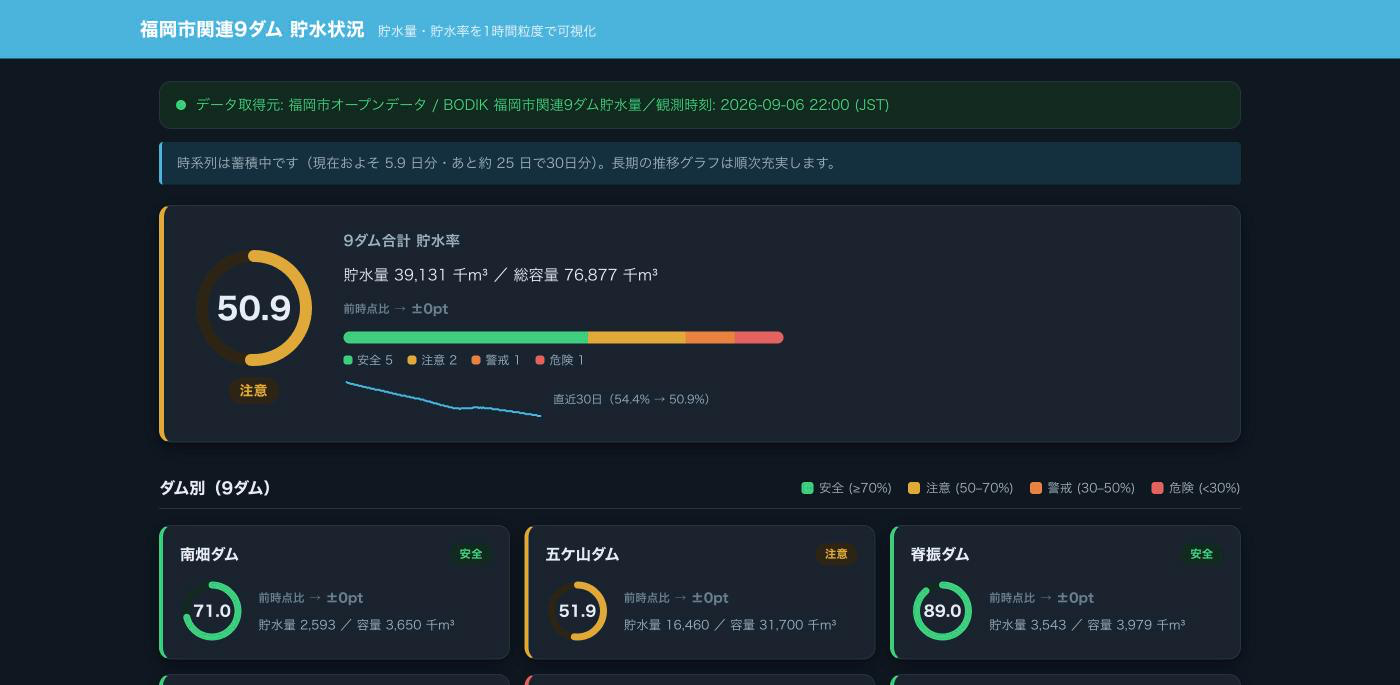
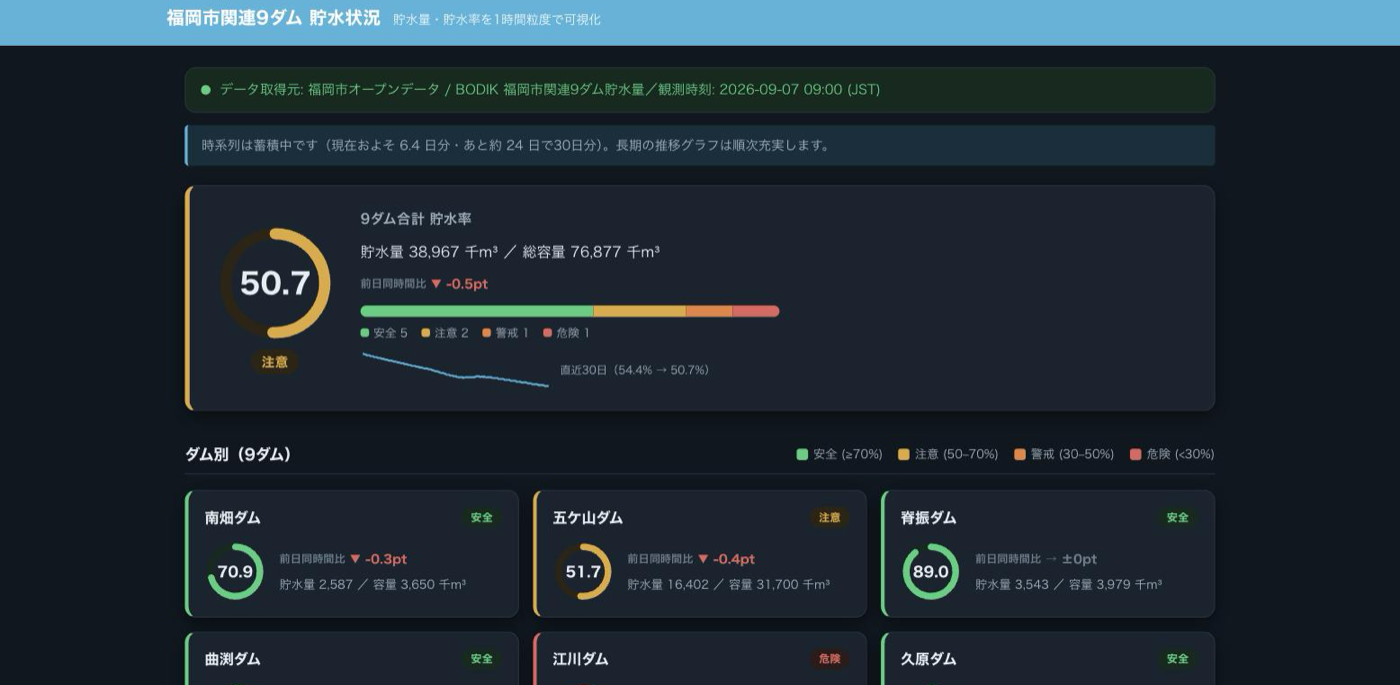
feat(delta): 差分表示を前日同時間比に変更 (#7)
前正時比（history.series 末尾2点の差分）から、最新観測時刻の
24時間前（±90分以内で最寄りの観測点を代用、無ければ非表示）との
差分に変更。UI ラベル・aria-label・README・スクリーンショット
（PC / ダーク）も「前日同時間比」に更新。

diff --git a/assets/app.js b/assets/app.js
@@ -5,8 +5,9 @@
  *   - data/latest.json を fetch し、9ダム個別カード＋合計サマリを描画する
  *   - 貯水率は SVG 円形リングゲージ（充填量＝貯水率・中央に数値）で可視化する（依存追加なし）
  *   - 合計サマリは「リング＋内訳セグメントバー（安全/注意/警戒/危険の本数）＋直近30日スパークライン」
- *   - 前時点比は貯水率のみ 1 系統に集約し、数値の下に「▲+0.2pt」相当を出す
- *     （前時点は latest.json 単体には無いため data/history.json の series 末尾2点の差分から算出）
+ *   - 前日同時間比は貯水率のみ 1 系統に集約し、数値の下に「▲+0.2pt」相当を出す
+ *     （前日同時刻の値は latest.json 単体には無いため data/history.json の series から
+ *      「最新観測時刻の24時間前（±90分で最寄り）」の点を引いて差分を算出）
  *   - 最終更新の表示は latest.observedAt（毎正時の観測時刻）を使う。
  *   - 実データ取得に失敗したら data/*.sample.json にフォールバックし、
  *     「サンプルデータ表示中」バッジを出す
@@ -174,11 +175,11 @@ function makeRing(rate, size) {
 }
 
 /*
- * 前時点比を 1 系統に集約した表示（貯水率のみ）。
- *   「前時点比 ▲ +0.2pt」を出す。向きは形状（▲▼→）＋色。
- *   色に依存しないよう要素全体に aria-label（"前時点比 貯水率 上昇 0.2ポイント" 等）を持たせ、
+ * 前日同時間比を 1 系統に集約した表示（貯水率のみ）。
+ *   「前日同時間比 ▲ +0.2pt」を出す。向きは形状（▲▼→）＋色。
+ *   色に依存しないよう要素全体に aria-label（"前日同時間比 貯水率 上昇 0.2ポイント" 等）を持たせ、
  *   アイコンは aria-hidden にしてスクリーンリーダーでの重複読みを防ぐ。
- *   前時点比データが無ければ「前時点比 —」。
+ *   前日同時間比データが無ければ「前日同時間比 —」。
  */
 function makeDeltaLine(deltaRate) {
   var el = document.createElement("span");
@@ -187,14 +188,14 @@ function makeDeltaLine(deltaRate) {
 
   var lead = document.createElement("span");
   lead.className = "delta-line-lead";
-  lead.textContent = "前時点比";
+  lead.textContent = "前日同時間比";
   el.appendChild(lead);
 
   var dir = deltaDirection(deltaRate, "rate");
   if (!dir) {
     el.classList.add("is-flat");
     el.appendChild(document.createTextNode(" —"));
-    el.setAttribute("aria-label", "前時点比 貯水率のデータなし");
+    el.setAttribute("aria-label", "前日同時間比 貯水率のデータなし");
     return el;
   }
   el.classList.add("is-" + dir);
@@ -215,8 +216,8 @@ function makeDeltaLine(deltaRate) {
   el.setAttribute(
     "aria-label",
     dir === "flat"
-      ? "前時点比 貯水率 横ばい 増減なし"
-      : "前時点比 貯水率 " + DIR_WORD.rate[dir] + " " + spokenDelta(deltaRate, "rate")
+      ? "前日同時間比 貯水率 横ばい 増減なし"
+      : "前日同時間比 貯水率 " + DIR_WORD.rate[dir] + " " + spokenDelta(deltaRate, "rate")
   );
   return el;
 }
@@ -229,14 +230,32 @@ function fmtObservedAt(iso) {
   return m[1] + "-" + m[2] + "-" + m[3] + " " + m[4] + ":" + m[5] + " (JST)";
 }
 
-// history.series の末尾2点から key ごとの前時点比を作る
+// history.series の「最新」と「前日の同時刻」を突き合わせて key ごとの差分（前日同時間比）を作る。
+// 前日同時刻ちょうどの観測点が無ければ ±90 分以内で最も近い点を代用し、
+// それも無ければ差分なし（"—" 表示）とする。
 function buildDeltas(history) {
   var out = {};
   if (!history || !Array.isArray(history.series) || history.series.length < 2) {
     return out;
   }
-  var prev = history.series[history.series.length - 2];
-  var last = history.series[history.series.length - 1];
+  var series = history.series;
+  var last = series[series.length - 1];
+  var lastMs = Date.parse(last.observedAt);
+  var prev = null;
+  if (!isNaN(lastMs)) {
+    var targetMs = lastMs - 24 * 60 * 60 * 1000; // 前日の同時刻
+    var tolMs = 90 * 60 * 1000;                  // 代用を許容する時間差
+    var bestGap = Infinity;
+    for (var i = series.length - 2; i >= 0; i--) {
+      var t = Date.parse(series[i].observedAt);
+      if (isNaN(t)) continue;
+      var gap = Math.abs(t - targetMs);
+      if (gap < bestGap) { bestGap = gap; prev = series[i]; }
+      if (t <= targetMs - tolMs) break; // これ以上さかのぼっても近づかない
+    }
+    if (bestGap > tolMs) prev = null;
+  }
+  if (!prev) return out;
   function diff(bucket, k) {
     if (!last[bucket] || !prev[bucket]) return null;
     var a = last[bucket][k];

diff --git a/assets/style.css b/assets/style.css
@@ -258,7 +258,7 @@ body {
   font-size: 0.85rem;
 }
 
-/* ---- 前時点比（1系統に集約・貯水率のみ） ---- */
+/* ---- 前日同時間比（1系統に集約・貯水率のみ） ---- */
 .delta-line {
   display: inline-flex;
   align-items: center;

diff --git a/README.md b/README.md
@@ -15,7 +15,7 @@
 | `wl-dam-01` | サイト雛形 | ✅ |
 | `wl-dam-02` | データ取得・正規化スクリプト（`scripts/fetch-dams.mjs`） | ✅ |
 | `wl-dam-03` | GitHub Actions 毎正時データ更新（`.github/workflows/update-data.yml`） | ✅ |
-| `wl-dam-04` | 現在値ビュー（9ダム個別カード＋合計サマリ・前時点比・色分け） | ✅ |
+| `wl-dam-04` | 現在値ビュー（9ダム個別カード＋合計サマリ・前日同時間比・色分け） | ✅ |
 | `wl-dam-05` | 推移グラフ（Chart.js・24h / 7d / 30d トグル・指標切替・系列 on/off） | ✅ |
 | `wl-dam-06` | 仕上げ（出典・ライセンス表記の確定、スクリーンショット整理、最終確認） | ✅ |
 | `design-v1` | デザイン刷新（リングゲージ・4段階しきい値・内訳バー・スパークライン・グラフのゾーン帯・モバイル2列タイル・ダークモード） | ✅ |
@@ -43,7 +43,7 @@ python3 -m http.server 8000
 ```
 
 確認ポイント: ヘッダ「福岡市関連9ダム 貯水状況」／合計サマリ（貯水率リング＋状態ラベル＋内訳バー＋スパークライン）／
-9ダム個別カード（円形リングゲージ・貯水量・前時点比・安全/注意/警戒/危険の 4 段階色分け）／観測時刻と取得元の表示／
+9ダム個別カード（円形リングゲージ・貯水量・前日同時間比・安全/注意/警戒/危険の 4 段階色分け）／観測時刻と取得元の表示／
 フッタの出典表記（福岡市オープンデータ / BODIK）。実データが読めない場合は
 `data/*.sample.json` にフォールバックし「サンプルデータ表示中」バッジが出ること。
 推移グラフが描画され、24時間 / 7日 / 30日トグル（**初期表示は 30日**）・指標（貯水率 / 貯水量）切替・
@@ -69,8 +69,8 @@ JS 構文チェックは `node --check assets/app.js`。
 
 情報階層は「合計リング＋状態ラベル → 9ダム 3 列グリッド → 推移グラフ」。合計サマリはリングに加えて
 内訳セグメントバー（安全／注意／警戒／危険の本数）と直近 30 日のスパークラインを持つ。
-前時点比は貯水率のみ 1 系統に集約し、数値の下に「前時点比 ▲+0.2pt」相当を出す（▲上昇＝緑 /
-▼下降＝赤 / →横ばい＝グレー）。色に依存しないよう形状アイコンと `aria-label`（例「前時点比 貯水率
+前日同時間比は貯水率のみ 1 系統に集約し、数値の下に「前日同時間比 ▲+0.2pt」相当を出す（▲上昇＝緑 /
+▼下降＝赤 / →横ばい＝グレー）。色に依存しないよう形状アイコンと `aria-label`（例「前日同時間比 貯水率
 上昇 0.3ポイント」）でも増減を伝える。左端の色帯は貯水率ステータスで、増減とは独立。
 
 | デスクトップ | 狭幅（スマホ相当） |
